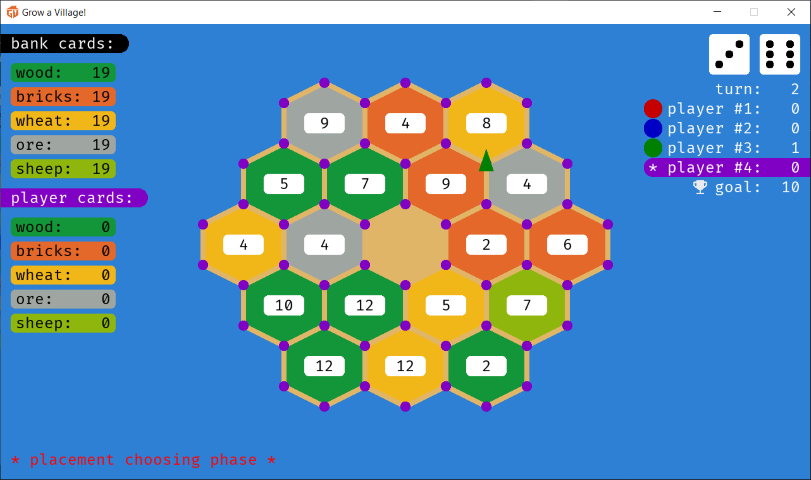
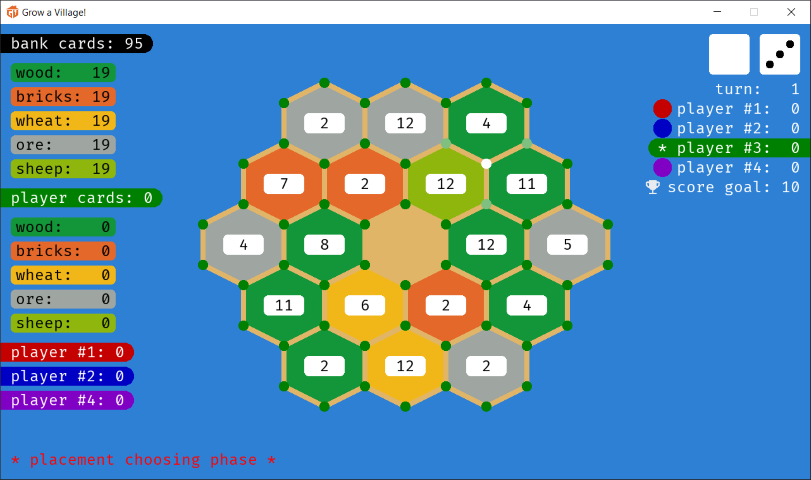
fix: final touches before deadline

diff --git a/GV/src/ui.c b/GV/src/ui.c
@@ -66,10 +66,10 @@ void draw_turn_info(ALLEGRO_DISPLAY* display, ALLEGRO_FONT* font, ALLEGRO_BITMAP
     // player data
     for (int p = 0; p < MAX_PLAYERS; ++p) {
         float cr = line_height;
-        al_draw_filled_circle(x - al_get_text_width(font, " player #X: XXX") - cr * 0.5, y + cr, cr, PlayerColors[p]);
+        al_draw_filled_circle(x - al_get_text_width(font, " player #X: XX") - cr * 0.5, y + cr, cr, PlayerColors[p]);
         char player_text[32];
-        sprintf_s(player_text, 32, "%splayer #%d: %3d", current_player == p ? "* " : "", p + 1, player_points[p]);
-        if (p == current_player) al_draw_filled_rounded_rectangle(x - al_get_text_width(font, player_text) - cr * 0.5, y, w + cr, y + line_height * 2, cr, cr, PlayerColors[current_player]);
+        sprintf_s(player_text, 32, "%splayer #%d: %2d", current_player == p ? "* " : "", p + 1, player_points[p]);
+        if (p == current_player) al_draw_filled_rounded_rectangle(x - al_get_text_width(font, player_text) - cr, y, w + cr, y + line_height * 2, cr, cr, PlayerColors[current_player]);
         al_draw_text(font, text_color, x - al_get_text_width(font, player_text), y, 0, player_text);
         //al_draw_text(font, current_player == p ? text_color : PlayerColors[p], x - al_get_text_width(font, player_text), y, 0, player_text);
         //char cp_text[4];
@@ -78,7 +78,7 @@ void draw_turn_info(ALLEGRO_DISPLAY* display, ALLEGRO_FONT* font, ALLEGRO_BITMAP
         y += margin + line_height;
     }
     char goal_text[32];
-    sprintf_s(goal_text, 32, "goal: %3d", goal);
+    sprintf_s(goal_text, 32, "score goal: %2d", goal);
     al_draw_text(font, text_color, x - al_get_text_width(font, goal_text), y, 0, goal_text);
     float og_w = al_get_bitmap_width(trophy);
     float og_h = al_get_bitmap_height(trophy);
@@ -102,9 +102,11 @@ void draw_cards(ALLEGRO_DISPLAY* display, ALLEGRO_FONT* font, int shift, const i
     float y = padding + margin + shift;
     float cr = line_height / 2;
 
+    int cards_sum = 0;
+    for (int i = 0; i < RESOURCES_COUNT; ++i) { cards_sum += cards[i]; }
     char text[32];
-    sprintf_s(text, 32, "%s:  ", title);
-    al_draw_filled_rounded_rectangle(-cr, y, margin + al_get_text_width(font, text), y + line_height, cr, cr, color);
+    sprintf_s(text, 32, "%s: %d", title, cards_sum);
+    al_draw_filled_rounded_rectangle(-cr, y, 2 * margin + al_get_text_width(font, text) + cr, y + line_height, cr, cr, color);
     al_draw_text(font, white, x, y, 0, text);
     y += margin + padding + line_height;
     x += margin;
@@ -118,6 +120,31 @@ void draw_cards(ALLEGRO_DISPLAY* display, ALLEGRO_FONT* font, int shift, const i
         al_draw_filled_rounded_rectangle(margin + padding, y, max_width + 3 * margin + padding, y + line_height, margin, margin, ResourceColor[i + 2]);
         al_draw_text(font, black, x, y, 0, name);
         al_draw_text(font, black, x + max_width - al_get_text_width(font, count), y, 0, count);
+        y += margin + line_height;
+    }
+}
+
+void draw_other_players_cards(ALLEGRO_DISPLAY* display, ALLEGRO_FONT* font, int current_player, const int MAX_PLAYERS, const int cards[4][5], ALLEGRO_COLOR* PlayerColors) {
+    ALLEGRO_COLOR white = al_map_rgb(255, 255, 255);
+    
+    float padding = 8.f;
+    float margin = 8.f;
+
+    float line_height = al_get_font_line_height(font);
+
+    float shift = 2 * ((line_height + margin) * (RESOURCES_COUNT + 1) + padding * 2);
+    float x = padding + margin;
+    float y = padding + margin + shift;
+    float cr = line_height / 2;
+
+    for (int p = 0; p < MAX_PLAYERS; ++p) {
+        if (p == current_player) continue;
+        int cards_sum = 0;
+        for (int i = 0; i < RESOURCES_COUNT; ++i) { cards_sum += cards[p][i]; }
+        char text[32];
+        sprintf_s(text, 32, "player #%d: %d", p + 1, cards_sum);
+        al_draw_filled_rounded_rectangle(-cr, y, 2 * margin + al_get_text_width(font, text) + cr, y + line_height, cr, cr, PlayerColors[p]);
+        al_draw_text(font, white, x, y, 0, text);
         y += margin + line_height;
     }
 }

diff --git a/GV/src/map.c b/GV/src/map.c
@@ -16,6 +16,7 @@ int MAP_CELL_SIZE = 128; // DEFAULT 128
 int MAP_ROAD_THICKNESS = 8; // DEFAULT 8
 
 // grid config
+int MAX_EDGES;
 int MAX_VERTICES;
 int MAX_TILES;
 POINT grid_offset;
@@ -79,8 +80,9 @@ bool load_map_from_file(char* fname) {
 					MAP_ROWS = num;
 				else if (token_id == 1) {
 					MAP_COLS = num;
-					MAX_TILES = MAP_COLS * MAP_ROWS - (MAP_ROWS / 2) + 1; // ! remember that every second row has 1 tile less (add 1 to be safe)
-					MAX_VERTICES = (MAP_COLS * 2 + 1) * (MAP_ROWS + 1);	  // ! for every bounding top line + bottom last = MAP_COLS * 2 + 1 vertices
+					MAX_TILES = MAP_COLS * MAP_ROWS - floor(MAP_ROWS / 2.); // ! remember that every second row has 1 tile less
+					MAX_VERTICES = (MAP_COLS * 2 + 1) * (MAP_ROWS + 1);	   // ! for every bounding top line + bottom last = MAP_COLS * 2 + 1 vertices
+					MAX_EDGES = (MAP_COLS * 5 + 1) * ceil(MAP_ROWS / 2.) + MAP_COLS * floor(MAP_ROWS / 2.);
 					terrain = (char*)malloc(MAX_TILES * sizeof(char));
 				}
 			}
@@ -120,6 +122,8 @@ bool load_map_from_file(char* fname) {
 		}
 
 		#ifdef _DEBUG_FILE_EXTRA_OUT
+			if (id == 0) printf("MAX_TILES: %d\nMAX_VERTICES: %d\nMAX_EDGES: %d\n", MAX_TILES, MAX_VERTICES, MAX_EDGES);
+			
 			printf("\n");
 		#endif
 		++id;
@@ -423,6 +427,9 @@ void generate_map(ALLEGRO_DISPLAY* display) {
 		}
 	}
 
+	// generate submain frid (of edges)
+	// TODO
+
 	#ifdef _DEBUG_GRID_EXTRA_OUT
 		printf("\n\033[33m[MAP] finished.\033[0m\n\n");
 	#endif
@@ -515,7 +522,7 @@ void draw_map(ALLEGRO_DISPLAY* display, ALLEGRO_FONT* font, int dices)
 	al_clear_to_color(ResourceColor[WATER]);
 
 	// draw tiles
-	for (int pos = 0; pos < MAX_TILES - 1; ++pos) {
+	for (int pos = 0; pos < MAX_TILES; ++pos) {
 		draw_hex(board.tiles[pos], font, dices == board.tiles[pos].value);
 		// [DEBIG] SHOW TILE INDEXES
 		//#ifdef _DEBUG_SHOW_GRIDS)

diff --git a/GV/src/game.c b/GV/src/game.c
@@ -78,6 +78,7 @@ void update_loop(ALLEGRO_EVENT* event, ALLEGRO_DISPLAY* display, ALLEGRO_FONT* f
 
     draw_bank_cards(display, font, bank_cards);
     draw_player_cards(display, font, player_cards[current_player], PlayerColors[current_player]);
+    draw_other_players_cards(display, font, current_player, MAX_PLAYERS, player_cards, PlayerColors);
 
     if (turn_nr <= 2 * MAX_PLAYERS) {
         float margin = 16.f;
@@ -116,8 +117,11 @@ void handle_events(ALLEGRO_EVENT* event, bool* running)
         int col = floor((norm_mx + MAP_CELL_SIZE * 0.25) / (MAP_CELL_SIZE * 0.5));
         int idx = row * (MAP_COLS * 2 + 1) + col;
         
+        if (idx < 0 || MAX_VERTICES <= idx) return;
+
         PLACEMENT v = board.placements[idx];
         if (v.active == false) return;
+
         float dx = (v.x - norm_mx);
         float dy = (v.y - norm_my);
         float d = sqrtf(dx * dx + dy * dy);
@@ -151,6 +155,13 @@ void handle_events(ALLEGRO_EVENT* event, bool* running)
                         board.placements[selected].building = TENT;
                         board.placements[selected].player = current_player;
                         player_points[current_player]++;
+                        // pay for building the house
+                        if (has_resources && !first_turns) {
+                            cpc[WOOD] -= 1;
+                            cpc[BRICK] -= 1;
+                            cpc[WHEAT] -= 1;
+                            cpc[SHEEP] -= 1;
+                        }
                         next_turn();
                     }
                     else {

diff --git a/GV/src/map.h b/GV/src/map.h
@@ -36,8 +36,7 @@ extern ALLEGRO_COLOR ResourceColor[7];
 typedef struct { float x; float y; } POINT;
 typedef struct { float x; float y; ResourceType type; int value; } HEX;
 typedef struct { float x; float y; int player; PlacementType building; int neighbors[3]; int parents[3]; bool active; } PLACEMENT;
-//typedef struct { POINT start; POINT end; float x; float y; Player player; } ROADS;
-typedef struct { POINT start; POINT end; Player player; } ROADS;
+typedef struct { POINT start; POINT end; float x; float y; Player player; bool active; } ROADS;
 typedef struct { HEX* tiles; PLACEMENT* placements; ROADS* roads; } BOARD;
 
 // map config
@@ -49,6 +48,7 @@ extern int MAP_CELL_SIZE;
 extern int MAP_ROAD_THICKNESS;
 
 // grid config
+extern int MAX_EDGES;
 extern int MAX_VERTICES;
 extern int MAX_TILES;
 extern POINT grid_offset;
@@ -64,7 +64,7 @@ extern BOARD board;
 // functionalities
 void free_map();
 bool init_map(ALLEGRO_DISPLAY* display);
-bool load_map_from_file(char* fname, bool extra_debug);
+bool load_map_from_file(char* fname);
 void generate_map(ALLEGRO_DISPLAY* display);
 
 // drawing

diff --git a/GV/src/ui.h b/GV/src/ui.h
@@ -16,3 +16,4 @@ void draw_turn_info(ALLEGRO_DISPLAY* display, ALLEGRO_FONT* font, ALLEGRO_BITMAP
 void draw_cards(ALLEGRO_DISPLAY* display, ALLEGRO_FONT* font, int shift, const int* cards, char* title, ALLEGRO_COLOR color);
 void draw_bank_cards(ALLEGRO_DISPLAY* display, ALLEGRO_FONT* font, int* bank_cards);
 void draw_player_cards(ALLEGRO_DISPLAY* display, ALLEGRO_FONT* font, int* player_cards, ALLEGRO_COLOR player_color);
+void draw_other_players_cards(ALLEGRO_DISPLAY* display, ALLEGRO_FONT* font, int current_player, const int MAX_PLAYERS, const int cards[4][5], ALLEGRO_COLOR* PlayerColors);
